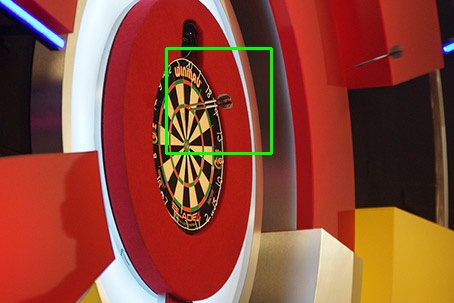
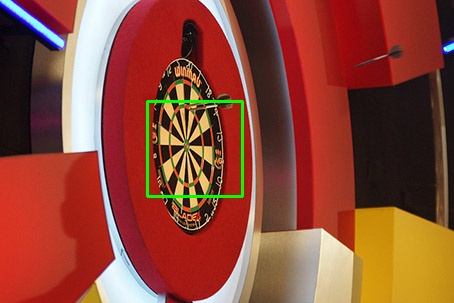
add template matching

Changed region(s): [[0.3084, 0.1485, 0.6167, 0.6832]]

diff --git a/ipcv_assignment_1/util.cpp b/ipcv_assignment_1/util.cpp
@@ -252,3 +252,84 @@ vector<Rect> concentric_intersection(const Mat &image) {
 
     return det_circles;
 }
+
+vector<Rect> template_matching(const Mat &src, vector<Rect> targets) {
+    vector<Rect> result;
+    // load templates
+    int sizes[] = {20, 25, 30, 35, 40, 45, 50};
+    vector<Mat> templates;
+    for (int size : sizes) {
+        char output[50];
+        sprintf(output, "../templates/templ%d.png", size);
+        templates.push_back(imread(output));
+    }
+
+    int match_method = CV_TM_CCOEFF_NORMED;
+
+    for (const Rect &target : targets) {
+        Range rows(target.y, target.y + target.height);
+        Range cols(target.x, target.x + target.width);
+        Mat sub = src(rows, cols).clone();
+
+//        imshow("Source Image", sub);
+//        waitKey(0);
+
+        // match templates according to the size of a target
+        double max = 0;
+        double min = 2;
+        double scoreSum = 0;
+        vector<double> vals;
+        for (Mat templ : templates) {
+            if (target.width < templ.cols || target.height < templ.rows) {
+                cout << "filtered" << endl;
+                break;
+            }
+
+            // Create the result matrix
+            int result_cols = sub.cols - templ.cols + 1;
+            int result_rows = sub.rows - templ.rows + 1;
+
+            Mat matchingResult(result_rows, result_cols, CV_32F);
+
+            // Do the Matching and Normalize
+            matchTemplate(sub, templ, matchingResult, match_method);
+
+            // Localizing the best match with minMaxLoc
+            double minVal;
+            double maxVal;
+            Point minLoc;
+            Point maxLoc;
+            Point matchLoc;
+            minMaxLoc(matchingResult, &minVal, &maxVal, &minLoc, &maxLoc, Mat());
+            matchLoc = maxLoc;
+
+            vals.push_back(maxVal);
+
+            max = max > maxVal ? max : maxVal;
+            min = min > maxVal ? maxVal : min;
+            scoreSum += maxVal;
+
+//            imshow("Source Image", temp);
+//            waitKey(0);
+        }
+
+        sort(vals.begin(), vals.end());
+
+        double median;
+
+        if (vals.size() % 2 == 0) {
+            median = (vals[vals.size() / 2 - 1] + vals[vals.size() / 2]) / 2;
+        } else {
+            median = vals[vals.size() / 2];
+        }
+
+        if (max > 0.51) {
+            result.emplace_back(target);
+        }
+
+        cout << "max " << max << " min " << min << " score avg " << scoreSum / vals.size() << " median " << median
+             << endl;
+    }
+
+    return result;
+}

diff --git a/ipcv_assignment_1/hough.cpp b/ipcv_assignment_1/hough.cpp
@@ -89,7 +89,7 @@ vector<Vec3f> hough_circle(const Mat &src, int threshold, int minRadius, int max
 //    display("gradient magnitude", magn);
 
     thresholdMag(magn, 120);
-    display("threshold magnitude", magn);
+//    display("threshold magnitude", magn);
 
     Mat dir = gradDirection(blur_img);
 //    display("gradient direction", dir);
@@ -127,7 +127,7 @@ vector<Vec3f> hough_circle(const Mat &src, int threshold, int minRadius, int max
             }
         }
     }
-    display("hough space", hough_space);
+//    display("hough space", hough_space);
 
     vector<Vec3f> circles;
 
@@ -192,7 +192,7 @@ vector<Vec2f> hough_line(const Mat &src, float threshold, int delta) {
         }
     }
 
-    display("hough_space", hough_space);
+//    display("hough_space", hough_space);
     vector<Vec2f> lines;
     for (int rho = 0; rho < diag; rho++) {
         for (int thetaDegree = 0; thetaDegree < 361; thetaDegree++) {

diff --git a/ipcv_assignment_1/calculations.cpp b/ipcv_assignment_1/calculations.cpp
@@ -93,6 +93,8 @@ vector<Rect> detect_dartboards(Mat image, CascadeClassifier model) {
 
     det_boards = exlude_intersect(det_boards);
 
+    det_boards = template_matching(image, det_boards);
+
     return det_boards;
 }
 
@@ -209,7 +211,7 @@ double calculate_f1(int true_positives, int total_detections, int true_detection
     double false_negatives = true_detections - true_positives;
     double recall = true_positives / (true_positives + false_negatives);
     double f1 = 2 * ((precision * recall) / (precision + recall));
-    printf("f1 score: %f\tprecision: %f\t recall: %f\t\n\n",f1, precision, recall);
+    printf("f1 score: %f\tprecision: %f\t recall: %f\t\n\n", f1, precision, recall);
     return f1;
 }
 

diff --git a/ipcv_assignment_1/header/util.h b/ipcv_assignment_1/header/util.h
@@ -10,9 +10,8 @@
 vector<Rect> line_intersection(const Mat &src, vector<Rect> &circles);
 vector<Rect> concentric_intersection(const Mat &src);
 vector<Rect> sliding_window_classification(Mat &src, CascadeClassifier model);
+vector<Rect> template_matching(const Mat &src, vector<Rect> targets);
 
-
-// TODO should move concentric circle detection here
 
 #define COMS30121_ASSIGNMENT_UTIL_H
 
